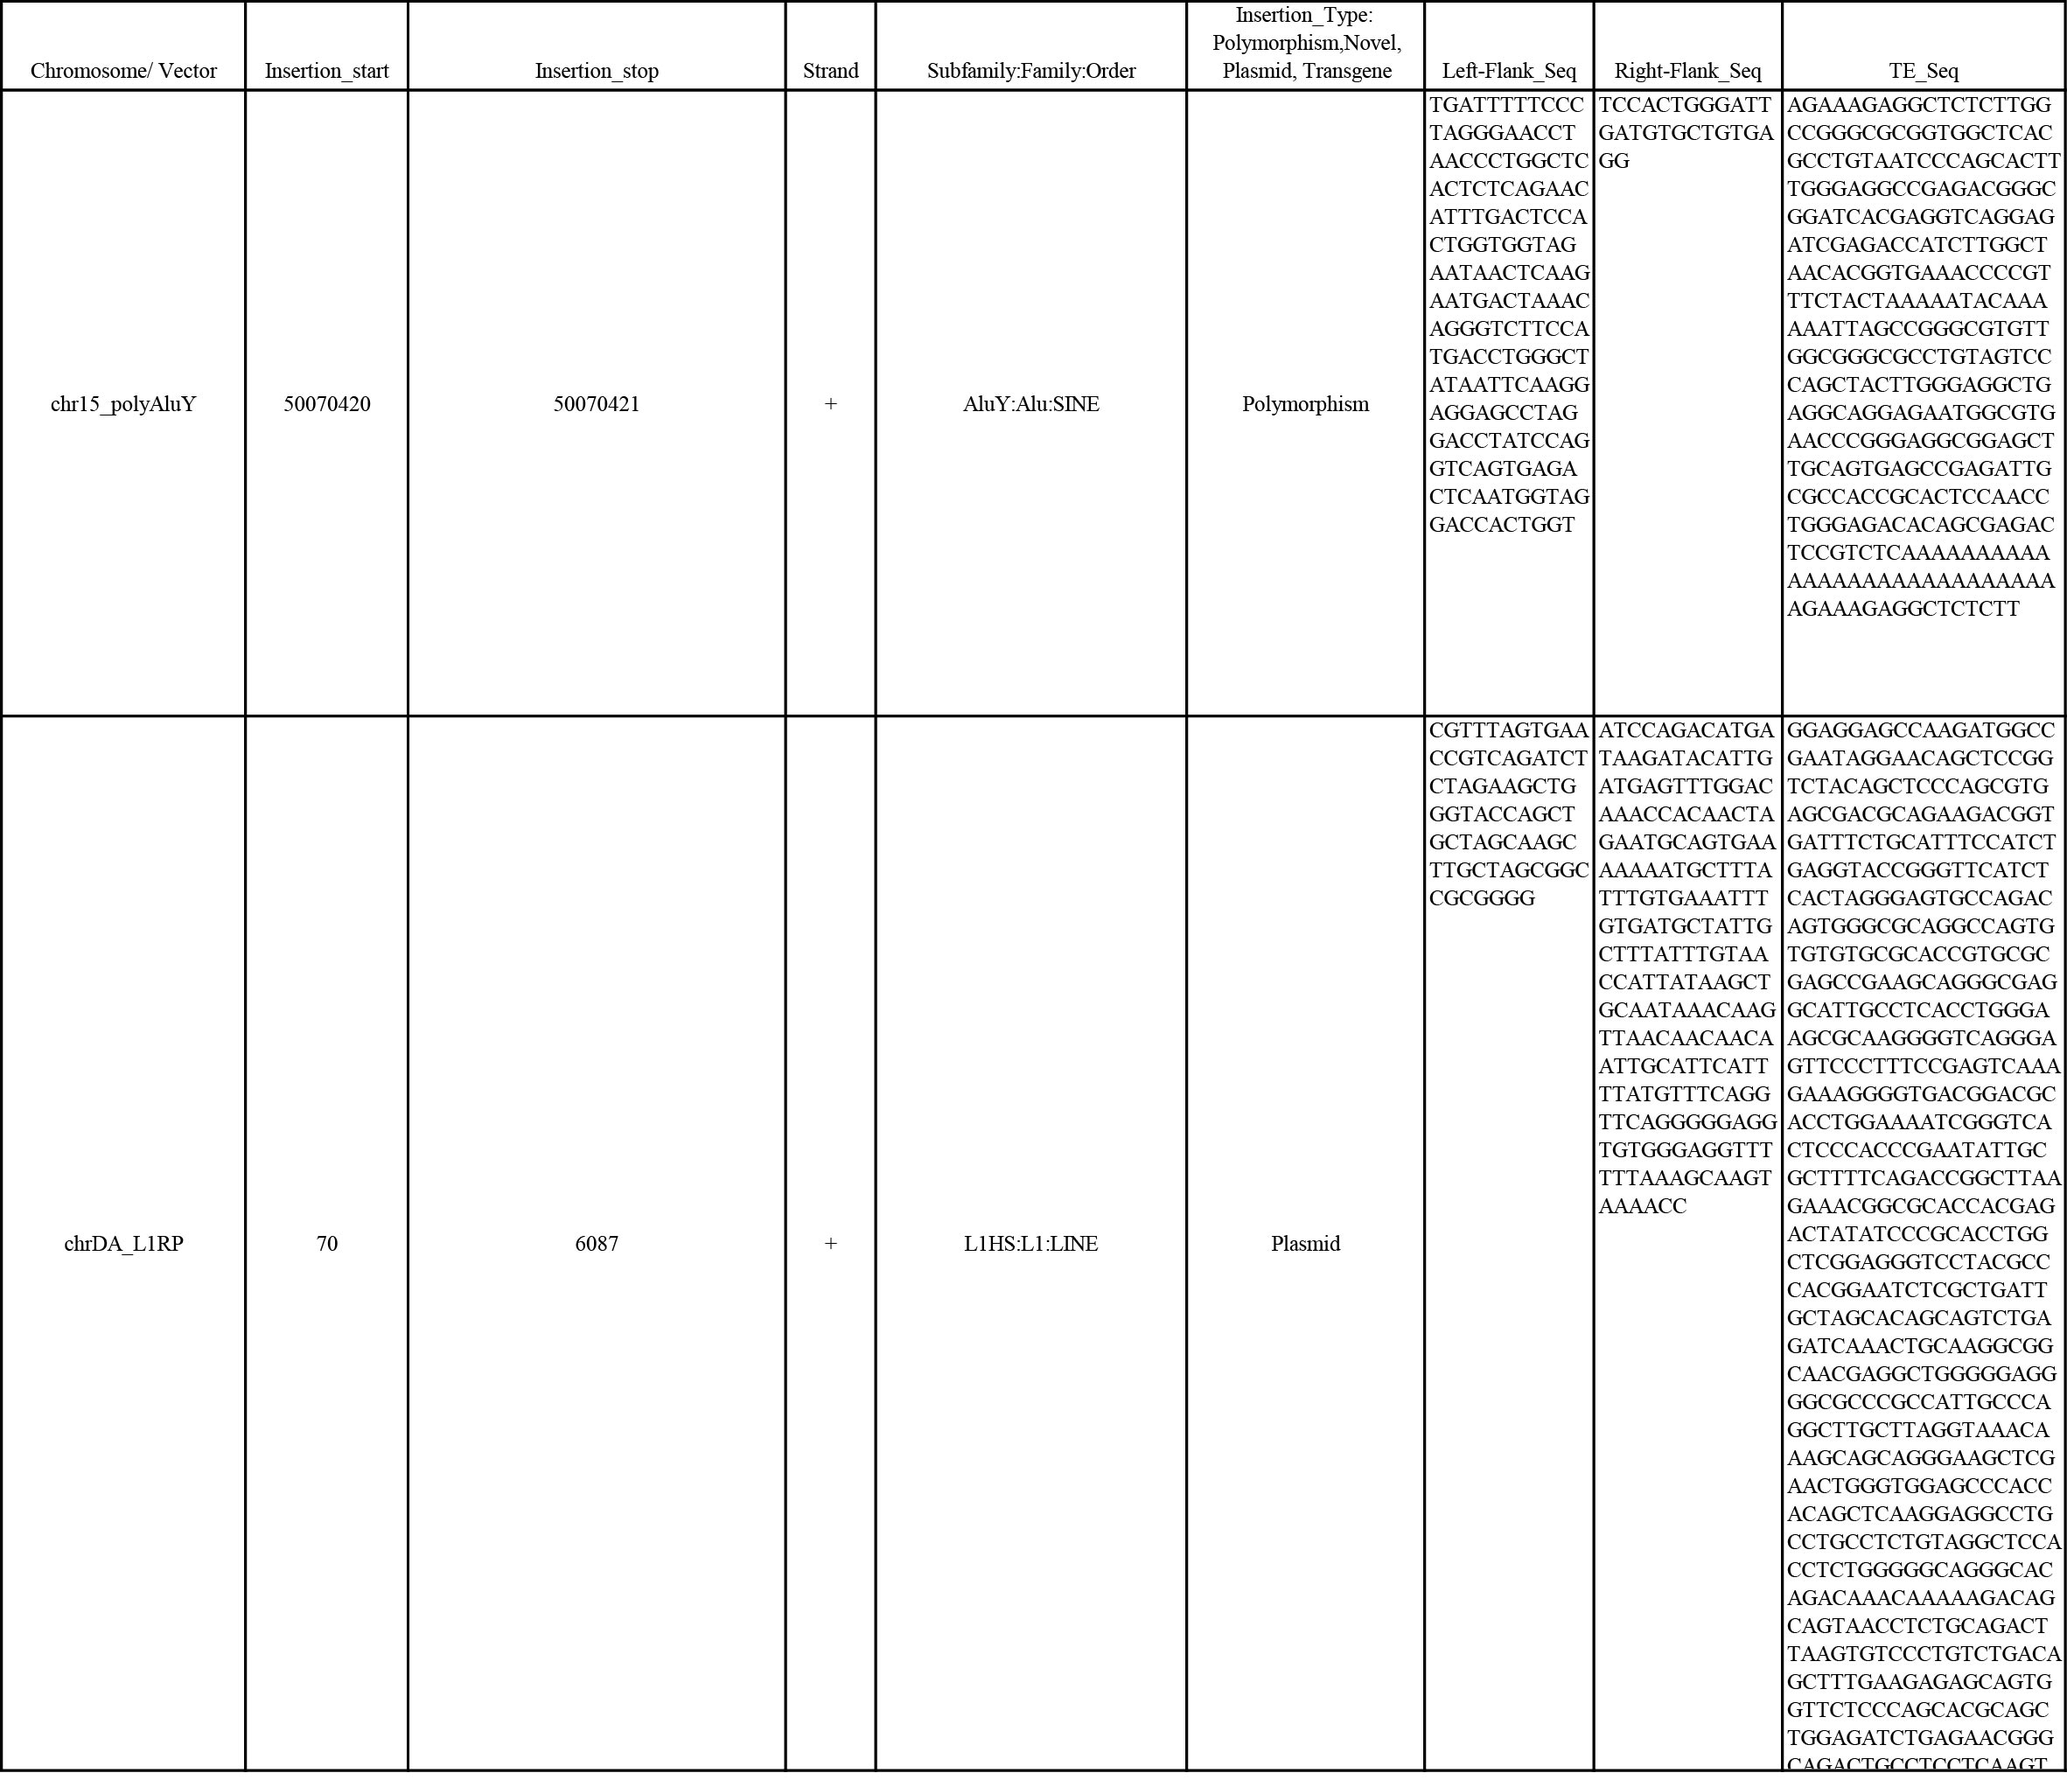
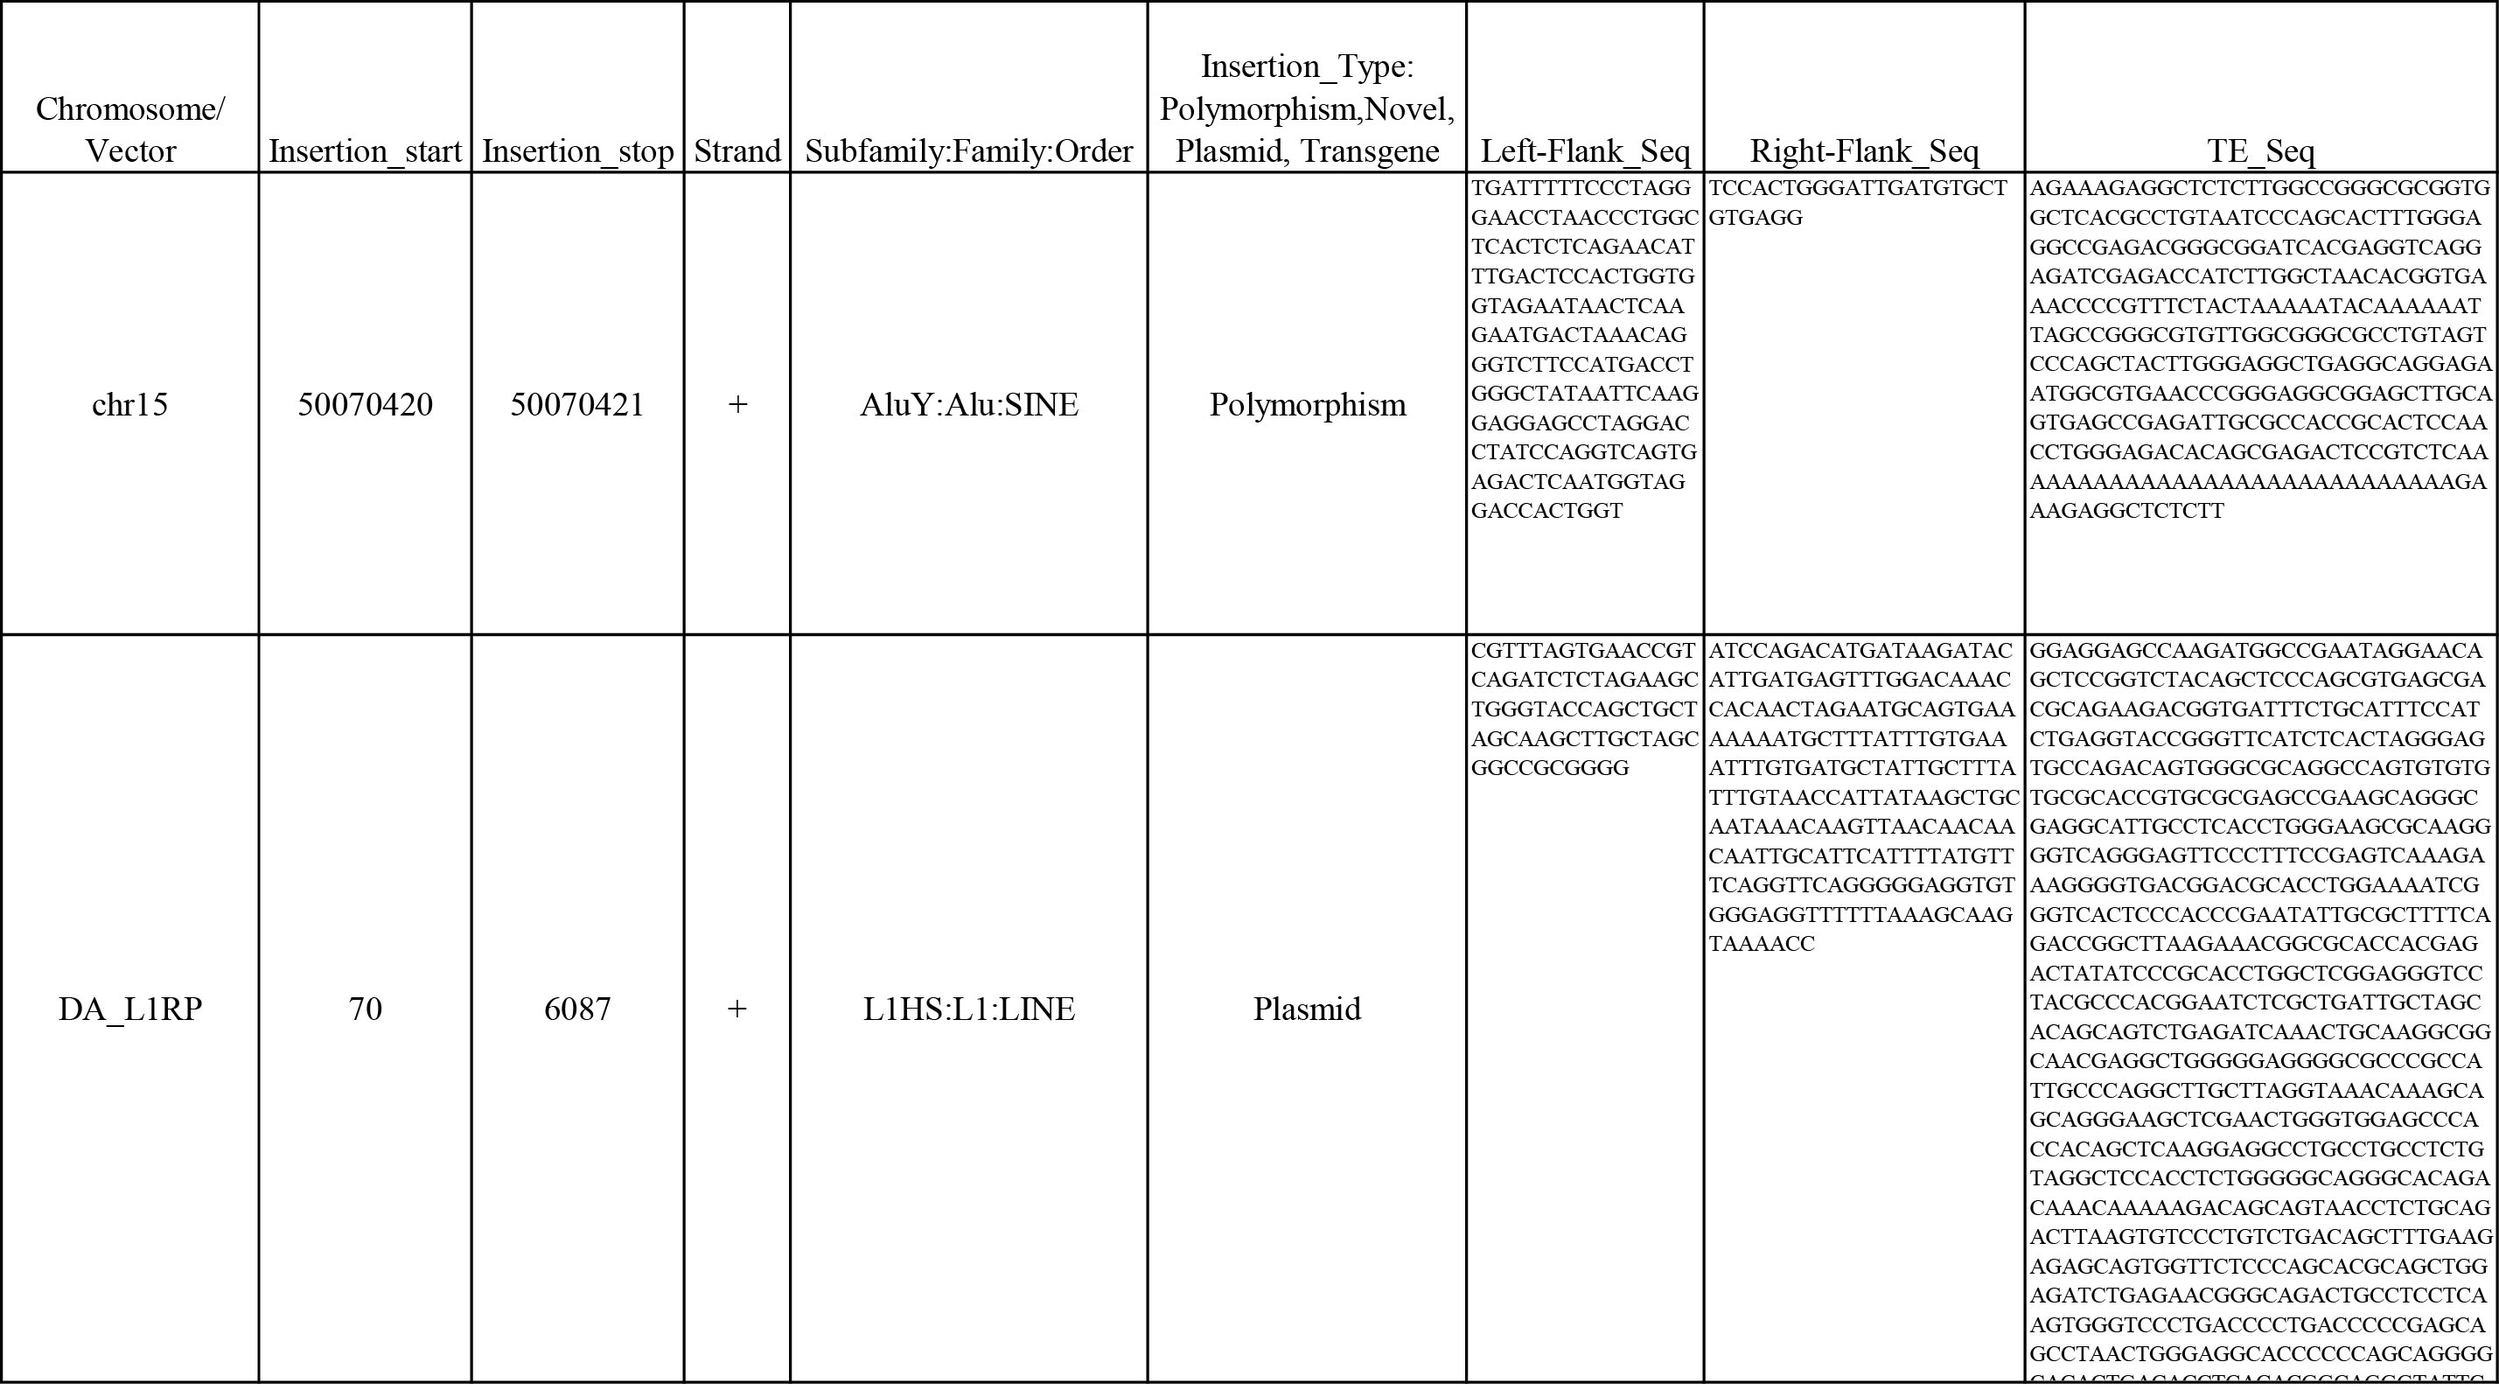
Replaced non-ref example tif with jpg

diff --git a/README.md b/README.md
@@ -209,10 +209,10 @@ The following information should be included in the file:
   8. **Right-Flank Sequence**
     * Flanking sequence after the TE insertion
   9. **TE Sequence**
-    * non-reference TE sequence
+    * Non-reference TE sequence
 
 ##### Example File #####
-<img align="center" width="800" height="625" src="images/Non_ref_example.tif">
+<img align="center" width="800" height="625" src="images/Non_ref_example.jpg">
 
 ### Quantification Stage ###
 
